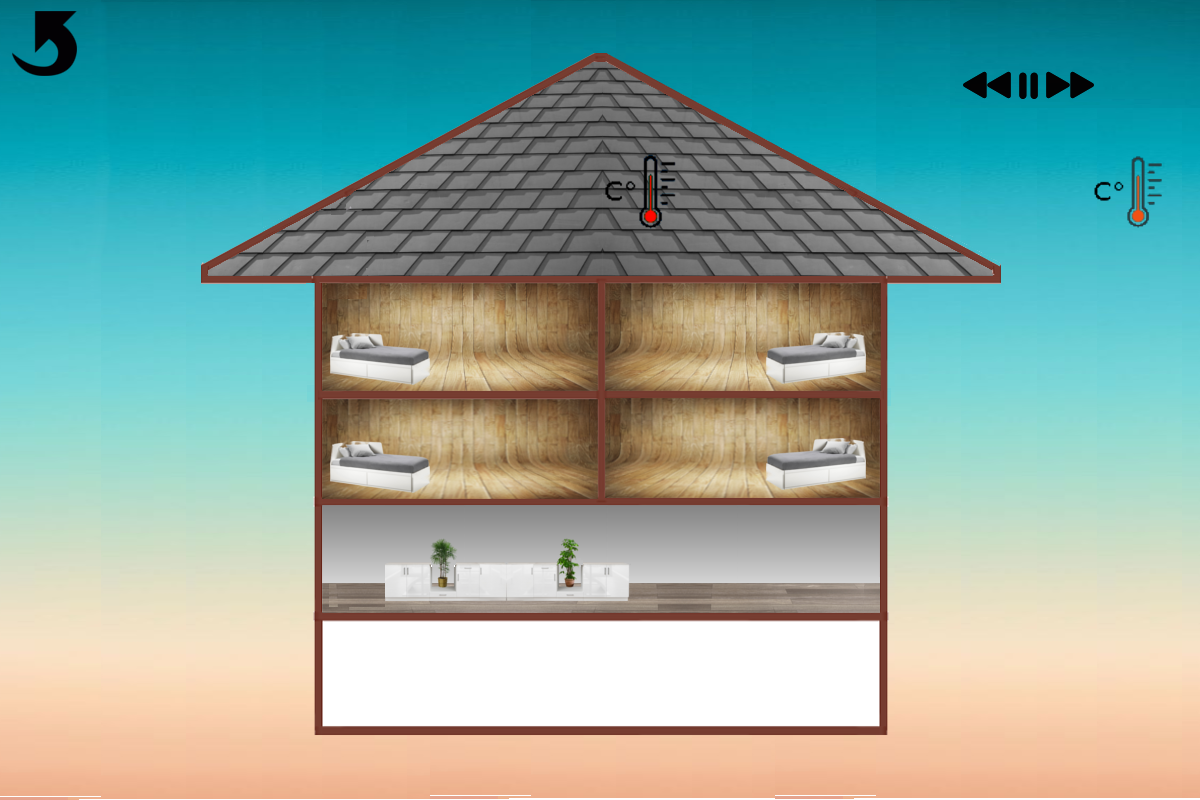
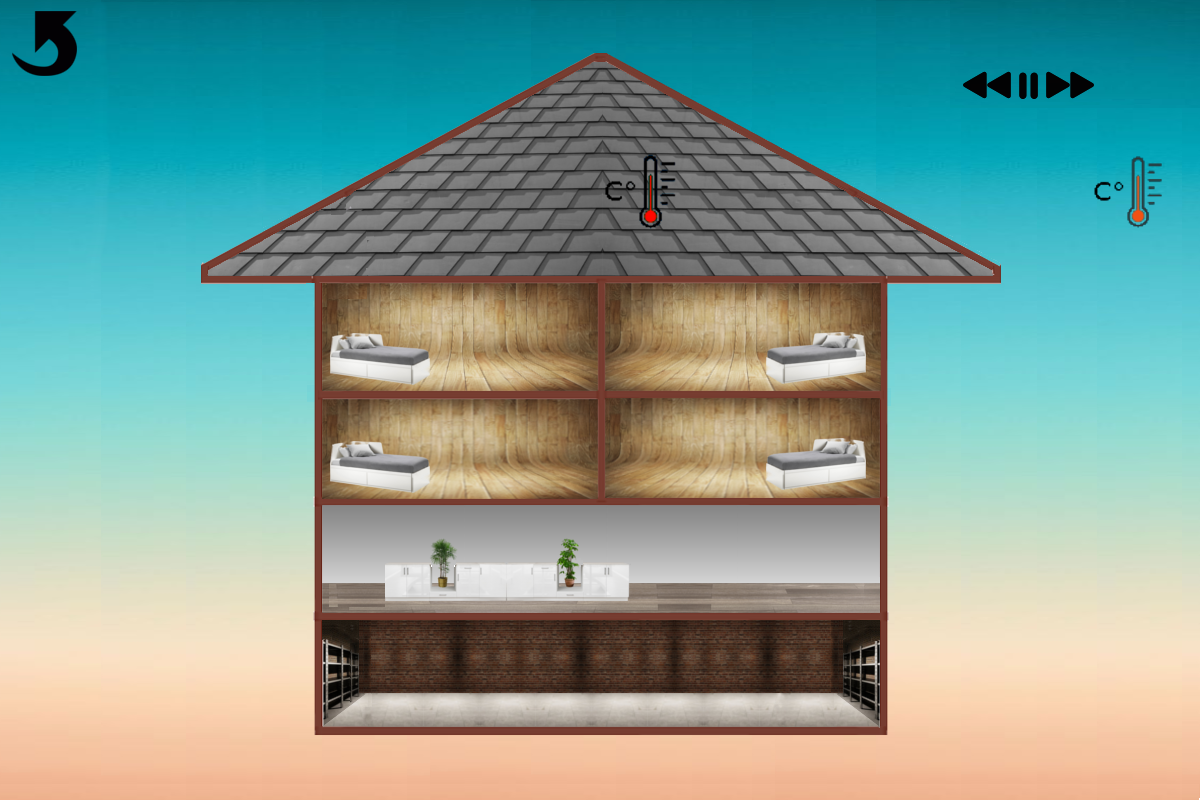
machine

Changed region(s): [[0.2467, 0.75, 0.74, 0.9062], [0.7092, 0.9688, 0.74, 1.0]]

diff --git a/Tomaro_v2/Site.py b/Tomaro_v2/Site.py
@@ -255,12 +255,11 @@ class Site:
 
 		for foyer in self.liste_foyer:
 
-
 				for minute_on_off,jour_allumage in foyer.heure_jour_on_off_machine_a_laver.items():
 						if(jour_allumage == jour_semaine and minute_on_off[0] == minute and foyer.machine_a_laver.allume == False):
 							foyer.machine_a_laver.allume = True
 						if(jour_allumage == jour_semaine and minute_on_off[1] == minute and foyer.machine_a_laver.allume == True):
-							foyer.machine_a_laver.allume = True
+							foyer.machine_a_laver.allume = False
 
 				for minute_on_off,jour_allumage in foyer.heure_jour_on_off_lave_vaisselle.items():
 						if(jour_allumage == jour_semaine and minute_on_off[0] == minute and foyer.lave_vaisselle.allume == False):
@@ -292,7 +291,6 @@ class Site:
 					foyer.radiateur.allume=False					
 
 				foyer.temperature = (60*((273+float(self.meteo[cle][0]))-(273+foyer.temperature))*self.lamb*foyer.surface_mur)/(foyer.epaisseur_mur*foyer.volume*self.capa) + foyer.temperature
-
 
 				for personne in foyer.liste_personne:
 
@@ -345,6 +343,15 @@ class Site:
 						self.consommation_globale_minute += personne.electro.consommation_minute*personne.electro.nb_allumage
 					if(personne.lampe.allume == True):
 						self.consommation_globale_minute += personne.lampe.consommation_minute
+
+				if(foyer.machine_a_laver.allume == True):
+					self.consommation_globale_minute += foyer.machine_a_laver.consommation_minute
+
+				if(foyer.lave_vaisselle.allume == True):
+					self.consommation_globale_minute += foyer.lave_vaisselle.consommation_minute
+
+				if(foyer.seche_linge.allume == True):
+					self.consommation_globale_minute += foyer.seche_linge.consommation_minute
 
 
 

diff --git a/Tomaro_v2/Affichage.py b/Tomaro_v2/Affichage.py
@@ -118,7 +118,7 @@ def affichage_foyer(fenetre,site,date,is_nuit,index_foyer,degre):
 	if(is_nuit==False):
 		background = pygame.image.load("Image/Background_foyer_jour.png").convert()
 	else:
-		background = pygame.image.load("Image/Background_foyer_nuit.png").convert()
+		background = pygame.image.load("Image/Background_foyer_jour.png").convert()
 	fenetre.blit(background,(0,0))
 
 	#Date
@@ -405,6 +405,28 @@ def affichage_foyer(fenetre,site,date,is_nuit,index_foyer,degre):
 		elif i==liste_electro_allume[3]:
 			grille_pain_on=pygame.image.load("Image/Grille_pain_on.png").convert_alpha()
 			fenetre.blit(grille_pain_on,(518,544))	
+
+	#Garage
+	if site.liste_foyer[index_foyer].machine_a_laver.allume==True:
+		machine_a_laver=pygame.image.load("Image/Machine_a_laver_on.png").convert_alpha()
+	else:
+		machine_a_laver=pygame.image.load("Image/Machine_a_laver_off.png").convert_alpha()
+
+	if site.liste_foyer[index_foyer].seche_linge.allume==True:
+		seche_linge=pygame.image.load("Image/Seche_linge_on.png").convert_alpha()
+	else:
+		seche_linge=pygame.image.load("Image/Seche_linge_off.png").convert_alpha()
+
+	if site.liste_foyer[index_foyer].lave_vaisselle.allume==True:
+		lave_vaisselle=pygame.image.load("Image/Lave_vaisselle_on.png").convert_alpha()
+	else:
+		lave_vaisselle=pygame.image.load("Image/Lave_vaisselle_off.png").convert_alpha()
+
+	fenetre.blit(machine_a_laver,(458-machine_a_laver.get_size()[0]/2,647))
+	fenetre.blit(lave_vaisselle,(600-lave_vaisselle.get_size()[0]/2+12,647))
+	fenetre.blit(seche_linge,(753-seche_linge.get_size()[0]/2,647))
+	
+
 
 	#On affiche les chambres vides
 	if site.liste_foyer[index_foyer].nombre_individu==1:
